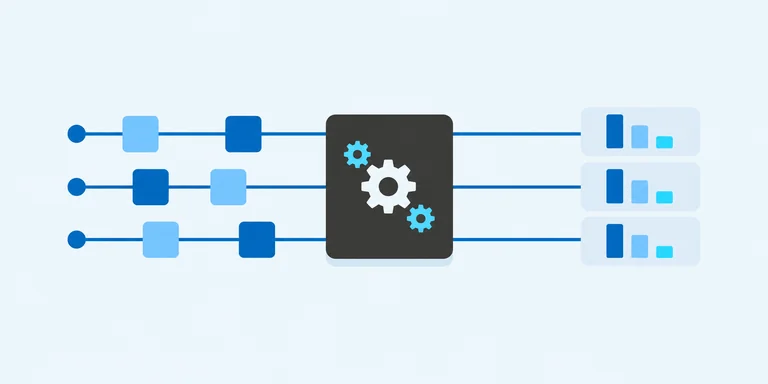
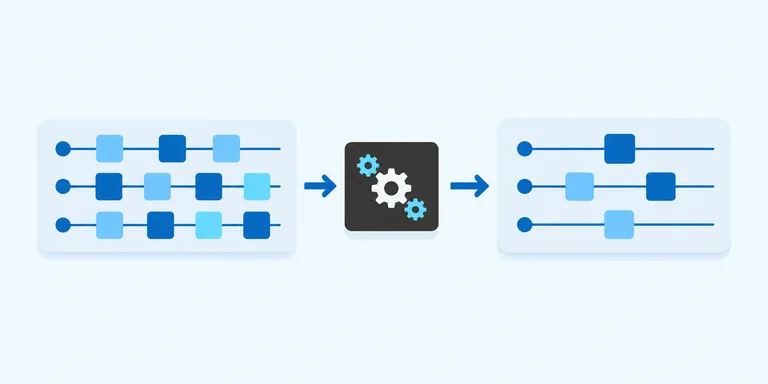
📝 Refine illustrations and trim guidance
🤖 *AI text below* 🤖

Show compilation as a program transformation and device integration as a
software stack connected to local and cloud quantum hardware.

Remove the explicit model-guidance attribution and shorten repeated
instructions and README task descriptions.

Assisted-by: GPT-6 Astra via Codex

Changed region(s): [[0.0625, 0.2812, 0.9375, 0.7188], [0.9062, 0.6562, 0.9375, 0.6875]]

diff --git a/README.md b/README.md
@@ -49,14 +49,14 @@ For other installation options, follow the
 [source-build instructions](https://mqt.readthedocs.io/projects/core/en/stable/installation.html).
 Then choose a starting point:
 
-| Task                                 | Start here                                                                                                                                                                                                                                                                                                           |
-| ------------------------------------ | -------------------------------------------------------------------------------------------------------------------------------------------------------------------------------------------------------------------------------------------------------------------------------------------------------------------- |
-| **Compile and execute a program**    | Estimate a phase with two qubits and measurement feedback in the [QPE walkthrough](https://mqt.readthedocs.io/projects/core/en/stable/getting_started.html), then explore [compilation and execution](https://mqt.readthedocs.io/projects/core/en/stable/compilation/index.html).                                    |
-| **Connect or implement a device**    | [Discover and use a QDMI device](https://mqt.readthedocs.io/projects/core/en/stable/qdmi/driver.html#python-bindings), integrate SDKs, or [implement a device interface](https://mqt.readthedocs.io/projects/core/en/stable/qdmi/index.html).                                                                        |
-| **Use decision diagrams**            | Represent and manipulate quantum states and operations in C++ or Python with the [DD quickstart](https://mqt.readthedocs.io/projects/core/en/stable/dd_package.html#quickstart).                                                                                                                                     |
-| **Generate and evaluate benchmarks** | [Configure structured programs](https://mqt.readthedocs.io/projects/core/en/stable/benchmarks.html#configure-a-typed-instance) and compare results with analytic references.                                                                                                                                         |
-| **Exchange quantum programs**        | Start with [Qiskit to QIR](https://mqt.readthedocs.io/projects/core/en/stable/qir/index.html#from-a-qiskit-circuit-to-qir), or exchange programs through [OpenQASM](https://mqt.readthedocs.io/projects/core/en/stable/mlir/OpenQASM.html) and [jeff](https://mqt.readthedocs.io/projects/core/en/stable/jeff.html). |
-| **Embed or extend MQT Core**         | Use the [C++ libraries](https://mqt.readthedocs.io/projects/core/en/stable/cpp_api.html#use-the-dd-library) or work on the [MLIR compiler infrastructure](https://mqt.readthedocs.io/projects/core/en/stable/development.html#mlir).                                                                                 |
+| Task                                 | Start here                                                                                                                                                                                                                                                                    |
+| ------------------------------------ | ----------------------------------------------------------------------------------------------------------------------------------------------------------------------------------------------------------------------------------------------------------------------------- |
+| **Compile and execute a program**    | Estimate a phase with [QPE](https://mqt.readthedocs.io/projects/core/en/stable/getting_started.html); explore [compilation and execution](https://mqt.readthedocs.io/projects/core/en/stable/compilation/index.html).                                                         |
+| **Connect or implement a device**    | [Discover devices](https://mqt.readthedocs.io/projects/core/en/stable/qdmi/driver.html#python-bindings), [integrate SDKs, or implement an interface](https://mqt.readthedocs.io/projects/core/en/stable/qdmi/index.html).                                                     |
+| **Use decision diagrams**            | Represent states and operations in C++ or Python: [DD quickstart](https://mqt.readthedocs.io/projects/core/en/stable/dd_package.html#quickstart).                                                                                                                             |
+| **Generate and evaluate benchmarks** | [Configure quantum programs](https://mqt.readthedocs.io/projects/core/en/stable/benchmarks.html#configure-a-typed-instance) and compare results with analytic references.                                                                                                     |
+| **Exchange quantum programs**        | [Qiskit to QIR](https://mqt.readthedocs.io/projects/core/en/stable/qir/index.html#from-a-qiskit-circuit-to-qir), [OpenQASM](https://mqt.readthedocs.io/projects/core/en/stable/mlir/OpenQASM.html), and [jeff](https://mqt.readthedocs.io/projects/core/en/stable/jeff.html). |
+| **Embed or extend MQT Core**         | [Use the C++ libraries](https://mqt.readthedocs.io/projects/core/en/stable/cpp_api.html#use-the-dd-library) or [extend the MLIR compiler](https://mqt.readthedocs.io/projects/core/en/stable/development.html#mlir).                                                          |
 
 ## Getting Started
 

diff --git a/AGENTS.md b/AGENTS.md
@@ -1,9 +1,7 @@
 # MQT Core Agent Guide
 
-Use the relevant sections of the [development policy](docs/development.md) for
-the subsystem being changed. Read the [AI usage policy](docs/ai_usage.md) when
-preparing a contribution or public communication. Load plans, audit guidance,
-and other supporting documents only when they help the current task.
+Use relevant sections of the [development policy](docs/development.md) and the
+[AI usage policy](docs/ai_usage.md). Load supporting documents only as needed.
 
 ## Repository layout
 
@@ -23,11 +21,9 @@ and other supporting documents only when they help the current task.
 - Inspect the working tree first and preserve user changes. Keep the diff
   focused on the assigned task; avoid unrelated cleanup, formatting, and
   upgrades.
-- Carry authorized work through implementation, relevant validation, and fixes
-  for failures caused by the change. Resolve routine choices without another
-  approval round. Ask only for missing information that materially changes the
-  result or for actions outside the delegated scope. If guidance blocks work,
-  identify the file and instruction; do not turn a recommendation into a gate.
+- Complete authorized work, including relevant validation and fixes, without
+  routine approval checkpoints. Ask only about consequential ambiguity or work
+  outside scope; cite any instruction that blocks progress.
 - For behavioral changes, trace producers, shared helpers, and consumers. Fix
   the owning layer and reuse existing code or dependency facilities. Do not
   reconstruct a shared contract in each frontend, exporter, or caller.
@@ -48,12 +44,10 @@ and other supporting documents only when they help the current task.
   Remove repetition of code, boilerplate parameters, change narration, and
   unsupported assurances. Use symbol references instead of brittle line
   pointers. Keep prompts and review history out of code and API docs.
-- Add or update tests when needed to protect changed behavior or a concrete
-  regression. Low-impact edits do not need tests that restate the
-  implementation. Protect supported semantics, not provisional implementation
-  choices. Check history, callers, invariants, and resource limits before
-  weakening a test; equal line coverage or a shared failure does not establish
-  redundancy.
+- Test changed behavior and concrete regressions, not implementation details.
+  Low-impact edits need no new tests. Before weakening a test, check history,
+  callers, invariants, and resource limits; equal line coverage or a shared
+  failure does not establish redundancy.
 - Put tests in the owning subsystem's test tree. Use direct unit tests for
   semantic contracts and subprocesses only for irreducible CLI behavior. Do not
   put MLIR tests under production tools or enable an optional production tool
@@ -128,9 +122,8 @@ comment, data-structure, diagnostic, and debugging guidance.
 
 ## Build and validation
 
-Choose checks for the affected behavior and repository requirements. A small
-change does not require every command below. Local machine overrides may select
-another supported preset.
+Run checks relevant to the change and required by repository policy. Local
+machine overrides may select another supported preset.
 
 | Task                                            | Command                                                            |
 | ----------------------------------------------- | ------------------------------------------------------------------ |
@@ -164,24 +157,19 @@ concrete remaining risk justifies more validation.
 
 ## Plans and audits
 
-Use an [ExecPlan](.agent/PLANS.md) when a complex task needs a durable record of
-design decisions or coordination, or the user requests one. Small tasks do not
-need plan files. Keep one concise record per independent task in
-`.agent/plans/`.
+Keep an [ExecPlan](.agent/PLANS.md) in `.agent/plans/` when design or
+coordination needs a durable record, or on request. Small tasks need no plan
+file.
 
-Use [audit guidance](.agent/AUDITS.md) for a requested audit or a concrete
-concern about contracts and their tests. Report findings in the response unless
-a durable record in `.agent/audits/` helps the work or is requested. An audit
-with authorized fixes should continue through implementation and validation.
+Use [audit guidance](.agent/AUDITS.md) for contract reviews. Save findings in
+`.agent/audits/` only when a durable record is useful or requested.
 
 ## Performance evidence
 
-Benchmarks are not a routine task deliverable. Run one when requested or when a
-concrete performance question needs measurement; prefer existing tooling. Keep
-ad hoc harnesses, raw results, and plots outside the repository and out of
-commits unless explicitly requested. Report enough workload, baseline,
-environment, and measurement detail to support any performance claim, including
-its limits. Durable correctness regressions belong in the owning test tree.
+Benchmark only when requested or needed for a concrete performance question;
+prefer existing tools. Keep ad hoc harnesses, data, and plots outside the
+repository unless explicitly requested. Support performance claims with the
+workload, baseline, environment, measurements, and limits.
 
 ## Git and public contributions
 

diff --git a/.agent/PLANS.md b/.agent/PLANS.md
@@ -1,11 +1,8 @@
 # Execution plans (ExecPlans)
 
-An ExecPlan records the goal, current implementation approach, consequential
-decisions, and evidence when a complex task needs a durable record or the user
-requests one. Store one plan per independently implemented task in
-`.agent/plans/<task-slug>.md`. Small fixes and documentation edits do not need a
-plan unless unresolved design or coordination makes one useful. Use the relevant
-repository guidance; a plan is not a required first step for every change.
+Use an ExecPlan when complex work needs a durable decision record, or on
+request. Store one per task in `.agent/plans/<task-slug>.md`. Small fixes and
+documentation edits rarely need one. Follow the root `AGENTS.md`.
 
 ## Write for the next contributor
 
@@ -21,14 +18,11 @@ choice only when its rationale will help someone maintain or change the result.
 A plan is evidence of intent, not authority over a user request, public
 contract, or the implementation that ultimately landed.
 
-Define completion in terms of delivered behavior and relevant validation, then
-continue until that outcome is reached or a real blocker remains. Do not stop
-after a prototype or first implementation for an unrequested review checkpoint.
-State assumptions and unresolved decisions explicitly. Resolve routine choices
-within the authorized scope. Ask when a consequential ambiguity remains or a
-choice would exceed the requested scope or change a supported contract beyond
-what the user authorized. A plan does not authorize commits, publication,
-external actions, or work in another task's checkout.
+Define completion by delivered behavior and relevant checks. Resolve routine
+choices and continue until done or blocked; ask about consequential ambiguity or
+work outside the authorized scope. State unresolved assumptions explicitly. A
+plan does not authorize commits, publication, external actions, or work in
+another task's checkout.
 
 ## Keep one current account
 
@@ -86,10 +80,9 @@ monitoring.
 
 ## Performance evidence
 
-Follow the [performance evidence guidance](../AGENTS.md#performance-evidence). A
-plan does not require a benchmark, harness, or comparison plot. When measurement
-is needed, keep experiments outside the repository and summarize only the
-evidence and limits needed to understand the decision.
+Follow the [performance evidence guidance](../AGENTS.md#performance-evidence).
+Record measurements and limits that explain the decision, not experiment
+artifacts.
 
 ## Validation
 

diff --git a/.agent/AUDITS.md b/.agent/AUDITS.md
@@ -1,10 +1,9 @@
 # Contract audits (SpecAudits)
 
-A SpecAudit checks a concrete concern about a subsystem's tests and the
-production code they constrain. Its purpose is to find useful, safe changes, not
-to maximize findings or delete tests. Report results directly unless the user
-requests a file or a durable record helps ongoing work; then use
-`.agent/audits/<scope-slug>.md`. Follow the root `AGENTS.md`.
+A SpecAudit checks a concrete concern about tests and the code they constrain.
+Seek useful changes, not a finding count. Report results directly; save a record
+in `.agent/audits/<scope-slug>.md` only when useful or requested. Follow
+`AGENTS.md`.
 
 ## Scope and stopping point
 
@@ -20,12 +19,9 @@ requests when overlap matters, and refresh when that scope or baseline changes.
 Record actual overlap, not a repository-wide snapshot of unrelated items.
 Missing access is a limitation, not evidence that no related work exists.
 
-An audit request authorizes investigation and a report. It does not by itself
-authorize applying findings or publishing changes. If the user has also
-requested fixes, continue through implementation and relevant validation within
-that scope without another approval checkpoint. Group related changes by
-behavior and reviewability; neither one PR per assertion nor a fixed commit
-split is required.
+An audit request authorizes investigation and a report. If fixes are also
+authorized, implement and validate them without another approval checkpoint.
+Publish only when authorized. Group related changes for review.
 
 ## Establish the contract
 
@@ -81,11 +77,9 @@ changes. Serialize experiments that share a checkout or build directory. A
 read-only investigation does not require aborting merely because unrelated user
 edits exist.
 
-Benchmarks are optional; use them for a requested measurement or a concrete
-performance question. Follow the
-[performance evidence guidance](../AGENTS.md#performance-evidence) and keep ad
-hoc experiments outside the repository. Record neutral results and regressions;
-an untested optimization remains a candidate, not a measured finding.
+Follow the [performance evidence guidance](../AGENTS.md#performance-evidence).
+Record neutral results and regressions; untested optimizations remain
+candidates.
 
 ### What an experiment proves
 

diff --git a/docs/development.md b/docs/development.md
@@ -213,27 +213,15 @@ non-obvious rules that agents must keep in immediate context to avoid a
 recurring mistake. Enforce mechanical rules in repository tooling instead of
 relying on prose.
 
-Following OpenAI's
-[guidance for GPT-6 Astra](https://developers.openai.com/blog/rethinking-skills-and-prompts-for-gpt-6-astra),
-scope instructions to the work that needs them. Keep skill descriptions short
-and specific, and load supporting material only for the selected workflow.
-Prefer an outcome, constraints, and a completion criterion over a prescribed
-sequence of steps. Plans and audit records are useful for durable decisions, not
-as mandatory artifacts for every task.
+Scope instructions to relevant work. Keep skill descriptions short and load
+workflow details on demand. Define outcomes and constraints rather than
+prescribing each step. Complete authorized work through relevant validation;
+repeat checks only for new changes, failures, or unresolved concerns.
 
-Carry authorized changes through relevant validation and fixes without stopping
-for an unrequested review checkpoint. Preserve explicit boundaries for public
-communication and other external actions in the
-{doc}`AI usage policy <ai_usage>`. If guidance blocks an otherwise authorized
-step, identify the instruction and its source instead of silently narrowing the
-task.
-
-Scale validation to the affected behavior. Once relevant checks pass, repeat or
-broaden them only for new changes, failures, unresolved concerns, or repository
-requirements. Benchmarks are optional unless requested or needed to answer a
-concrete performance question. Keep ad hoc harnesses, raw measurements, and
-plots outside the repository unless the user explicitly asks to retain them;
-summarize evidence and limits with any performance claim.
+Plans and audit files should preserve useful decisions, not log routine tasks.
+Benchmark only when requested or needed to answer a concrete performance
+question. Keep ad hoc experiments outside the repository unless explicitly
+requested.
 
 [commit-messages]: https://chris.beams.io/posts/git-commit/
 [google-cpp]: https://google.github.io/styleguide/cppguide.html
